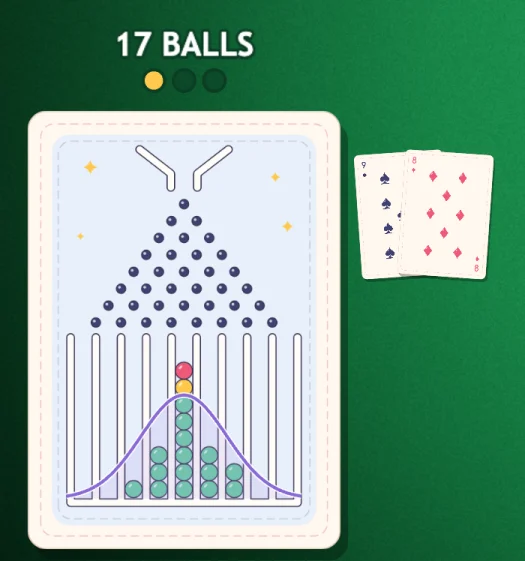
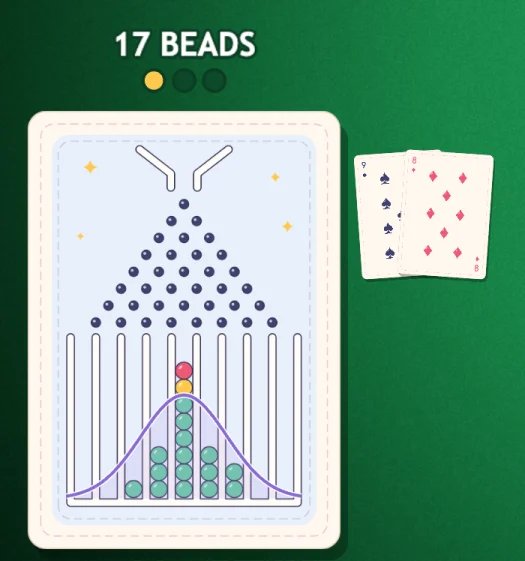
feat: read the blackjack tutorial from shared/text.json
Main now keeps player-facing text in shared/text.json and calls the balls
beads (#35). The how-to-play window follows: its wording moves into
blackjack.tutorial there, the two screenshots that show a counter are
retaken ("17 BEADS"), and the dealer's cash-out line no longer says ten
hands.

Changed region(s): [[0.2133, 0.0303, 0.4876, 0.1212]]

diff --git a/frontend/level2/Tutorial.ts b/frontend/level2/Tutorial.ts
@@ -1,6 +1,6 @@
 // The how-to-play window that opens over the table when a game starts: a screenshot and a few
 // lines for each step. It is drawn by the engine like the rest of the table, so every shell
-// shows it. The numbers in the text come from config.ts.
+// shows it.
 
 import type { GameObjects, Scene } from "phaser";
 import {
@@ -14,52 +14,20 @@ import { CENTER, HEIGHT, TUTORIAL, WIDTH } from "./layout";
 import { COLORS } from "./textures";
 import type { TutorialShot } from "./textures";
 import { Button, FONT, label } from "./ui";
+import { fill, TEXT } from "../src/misc/text";
 
-// One screenshot per step; each string in `text` is a paragraph.
-const STEPS: { shot: TutorialShot; title: string; text: string[] }[] = [
-    {
-        shot: "bet",
-        title: "PLACE YOUR BET",
-        text: [
-            "Click chips to build your bet, and click the pile to take one back.",
-            `The minimum bet is ${MIN_BET}. Press DEAL when you are ready.`,
-        ],
-    },
-    {
-        shot: "drop",
-        title: "CARDS DROP BALLS",
-        text: [
-            "Every card drops one ball for each symbol on it: an ace drops 1, a jack, queen or king drops 10.",
-            "The balls bounce through the pins and stack up in your board.",
-        ],
-    },
-    {
-        shot: "curve",
-        title: "STAY UNDER THE CURVE",
-        text: [
-            "Balls under the curve are green. The ball the curve crosses is yellow.",
-            "A ball above the curve is red, and one red ball busts your board: you lose your bet.",
-        ],
-    },
-    {
-        shot: "turn",
-        title: "YOUR MOVE",
-        text: [
-            "HIT draws another card.",
-            `STAND ends your turn: the dealer turns over its hidden card and draws while it has fewer than ${DEALER_STANDS_AT} balls.`,
-            "DOUBLE doubles your bet for exactly one more card.",
-        ],
-    },
-    {
-        shot: "win",
-        title: "HOW TO WIN",
-        text: [
-            "Finish with more balls than the dealer, or watch the dealer drop a red one.",
-            `${BLACKJACK_YELLOWS} yellow balls without a red one are a BLACKJACK and pay 3 to 2.`,
-            `You play ${HANDS} hands with ${START_CHIPS} chips: leave with as many as you can.`,
-        ],
-    },
-];
+const T = TEXT.blackjack.tutorial;
+
+// One screenshot per step, in order. A step's title and paragraphs are in shared/text.json
+// under the same name; the numbers in them come from config.ts.
+const STEPS: TutorialShot[] = ["bet", "drop", "curve", "turn", "win"];
+const NUMBERS = {
+    minBet: MIN_BET,
+    standsAt: DEALER_STANDS_AT,
+    yellows: BLACKJACK_YELLOWS,
+    hands: HANDS,
+    chips: START_CHIPS,
+};
 
 const GOLD = "#f5c451";
 const FRAME = 8; // the border around a screenshot
@@ -104,11 +72,7 @@ export default class Tutorial {
             .setRounded(28)
             .setStrokeStyle(5, COLORS.gold);
         this.frame = scene.add.rectangle(shot.x, shot.y, 1, 1, COLORS.gold);
-        this.shot = scene.add.image(
-            shot.x,
-            shot.y,
-            `tutorial-${STEPS[0].shot}`,
-        );
+        this.shot = scene.add.image(shot.x, shot.y, `tutorial-${STEPS[0]}`);
 
         this.caption = label(scene, text.x, text.y, "", 22)
             .setOrigin(0, 0.5)
@@ -129,13 +93,7 @@ export default class Tutorial {
         this.dots = STEPS.map((_, i) =>
             scene.add.circle(text.x + 12 + i * 32, controls.y, 9, COLORS.gold),
         );
-        this.skip = label(
-            scene,
-            controls.skipX,
-            controls.y,
-            "SKIP TUTORIAL",
-            24,
-        )
+        this.skip = label(scene, controls.skipX, controls.y, T.skip, 24)
             .setOrigin(0, 0.5)
             .setAlpha(0.75)
             .setInteractive({ useHandCursor: true });
@@ -146,7 +104,7 @@ export default class Tutorial {
             scene,
             controls.backX,
             controls.y,
-            "BACK",
+            T.back,
             "blue",
             () => this.show(this.step - 1),
             170,
@@ -155,7 +113,7 @@ export default class Tutorial {
             scene,
             controls.nextX,
             controls.y,
-            "NEXT",
+            T.next,
             "gold",
             () =>
                 this.step < STEPS.length - 1
@@ -201,7 +159,10 @@ export default class Tutorial {
     private show(step: number) {
         if (this.closed || step < 0 || step >= STEPS.length) return;
         this.step = step;
-        const { shot, title, text } = STEPS[step];
+        const shot = STEPS[step];
+        const { title } = T.steps[shot];
+        const text = T.steps[shot].text.map((line) => fill(line, NUMBERS));
+        const at = { step: step + 1, steps: STEPS.length };
         const last = step === STEPS.length - 1;
 
         const box = TUTORIAL.shot;
@@ -217,12 +178,12 @@ export default class Tutorial {
             this.shot.displayHeight + FRAME,
         );
 
-        this.caption.setText(`HOW TO PLAY  ·  ${step + 1} / ${STEPS.length}`);
+        this.caption.setText(fill(T.caption, at));
         this.title.setText(title);
         this.body.setText(text.join("\n\n"));
         this.dots.forEach((dot, i) => dot.setAlpha(i === step ? 1 : 0.3));
         this.back.setEnabled(step > 0);
-        this.next.setLabel(last ? "PLAY" : "NEXT");
+        this.next.setLabel(last ? T.play : T.next);
         this.skip.setVisible(!last); // PLAY closes the window as well
 
         this.scene.tweens.add({
@@ -231,7 +192,7 @@ export default class Tutorial {
             duration: 180,
         });
         this.announce(
-            `How to play, step ${step + 1} of ${STEPS.length}. ${title}. ${text.join(" ")}`,
+            fill(T.announcement, { ...at, title, text: text.join(" ") }),
         );
     }
 

diff --git a/docs/GAME_DESIGN.md b/docs/GAME_DESIGN.md
@@ -92,8 +92,9 @@ new "over 21"; landing on it three times without going over is the new blackjack
   screenshot of the table (`assets/tutorial/`) and a few lines of text, with
   Next and Back, and Skip on every step but the last. The table waits
   underneath, the dealer greets the player once the window is closed, and
-  each step is also sent to the screen-reader live region. The screenshots
-  are captures of the real table: retake them when its look changes.
+  each step is also sent to the screen-reader live region. The wording is
+  `blackjack.tutorial` in `shared/text.json`. The screenshots are captures of
+  the real table: retake them when its look or its wording changes.
 - **Bets:** click chips (1, 5, 10, 25, 50, 100, 500, 1000) onto the bet pile;
   click a chip on the pile to take it back. The next hand starts with the same bet.
 - **Deck:** 52 cards without Jokers, freshly shuffled every hand.
